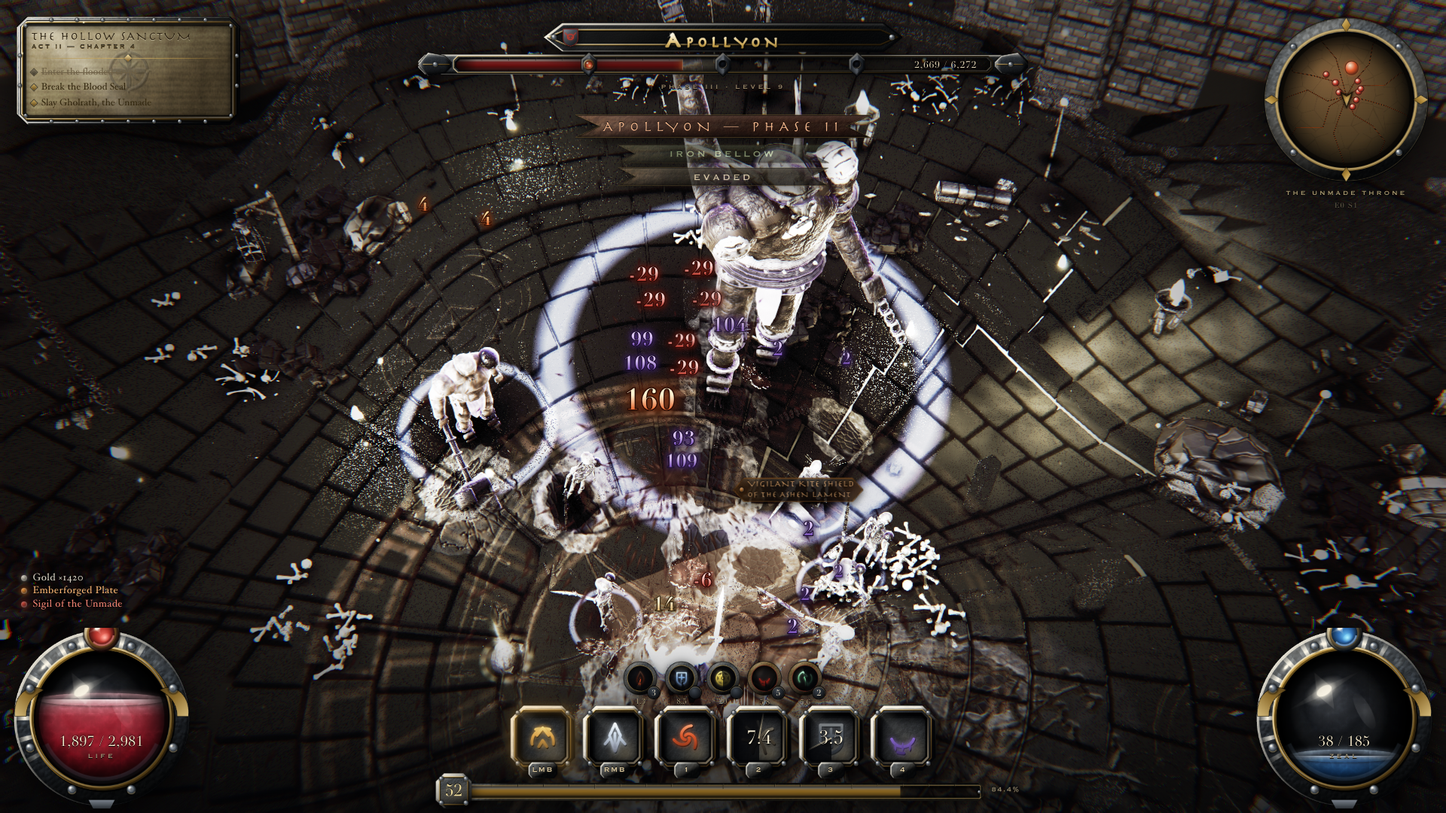
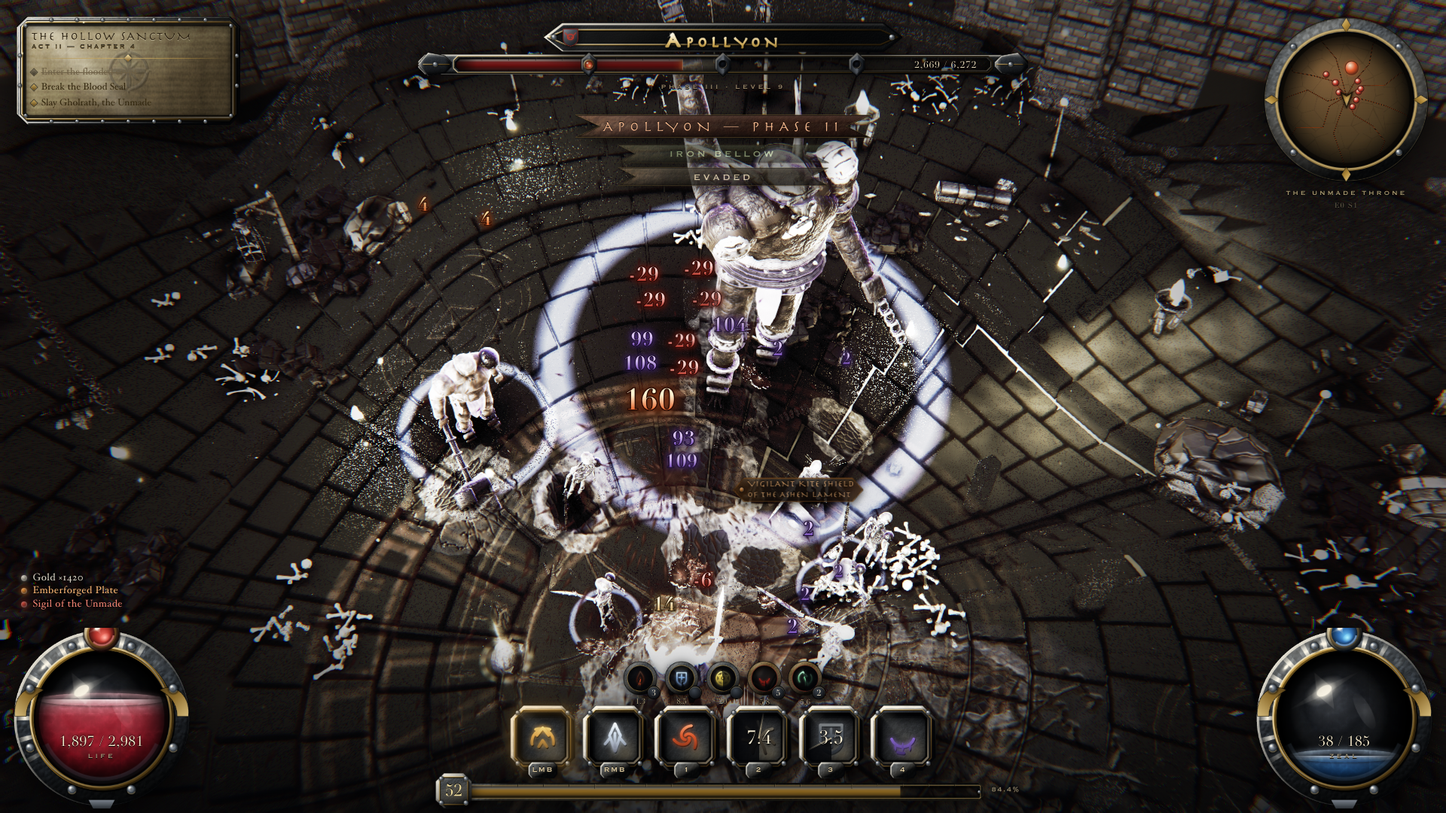
Stop enemy attack warnings from printing a square patch around the hero
A telegraph is drawn on a square patch PAD (0.5 m) past its shape, and two
of its layers reached that patch's straight sides:

- The outer contact shade fell off as exp(-d / 0.34) and was still at
  0.06 coverage where the skirt ends, so it stopped on a straight line.
  The grade's contrast made that line plain on the floor.
- The release flash was masked by mix(max(body, rim), 1.0, bleedIn), and
  bleedIn is 1 for every closed shape, so a landing circle or ring
  flashed its entire rotated square quad.

Enemy AoE warnings are aimed at the hero, so the square followed him and
was re-cut each time one landed, which is the "square drawn on the floor
as the player moves" that was reported. The shade is now windowed to zero
before the skirt edge, and the flash covers only the shape and its rim.

Verified in the live crypt by swapping the old shader back in on the same
frozen frame: with the warnings forced into release, the old shader paints
a rotated square round the hero and the new one paints only the circle.
boss (2.0% of pixels, its baseline had the square in it), dungeon (8 px)
and night (0.4%) were recaptured; each repeats exactly.

Changed region(s): [[0.4062, 0.6722, 0.625, 0.8861], [0.4375, 0.8556, 0.4688, 0.8861]]

diff --git a/src/vfx/decals/Telegraph.js b/src/vfx/decals/Telegraph.js
@@ -245,6 +245,7 @@ varying vec4 vT4;   // endTime, released, seed, opacity
 #define STREAK 0.20          /* hazard streak gain                                 */
 #define SHADE  0.012         /* engraved shadow line gain (near black)             */
 #define BLEED  0.020         /* outer contact shade gain (near black)              */
+#define TG_PAD ${PAD.toFixed(3)}   /* the patch's skirt past the shape, metres (PAD)   */
 
 /* Value noise. Zero textures — the whole field still costs 0 texture units — and
  * a pure function of local position, so it is byte-deterministic across runs. */
@@ -580,13 +581,23 @@ void main() {
      rectangle sitting on the floor, which is exactly the shape that read as
      broken geometry over the boss arena's bright stone. */
   float bleedM = mix( 1.0 - inside, 1.0, bleedIn );
-  SHDW( tint * BLEED,  exp( -max( 0.0, d ) / 0.34 ) * 0.26 * impend * bleedM )
+  /* ...and it must reach zero INSIDE the patch. The exponential alone was still
+     at 0.06 coverage where the skirt ends, PAD past the shape, so the shade
+     stopped on the patch's own straight sides. Under the grade's contrast that
+     read as a dark square printed round the hero by every warning aimed at him,
+     re-cut each time one landed. The window closes before the skirt edge, and the
+     corners lie farther out still, so nothing is left for the quad to clip. */
+  float bleedEdge = 1.0 - smoothstep( TG_PAD * 0.45, TG_PAD * 0.92, d );
+  SHDW( tint * BLEED,  exp( -max( 0.0, d ) / 0.34 ) * 0.26 * impend * bleedM * bleedEdge )
   SHDW( tint * WASH,   body * ( 0.16 + 0.15 * swept ) * impend * danger * fillM * radRamp )
   SHDW( tint * STREAK, hatch * 0.14 * danger )
   SHDW( tint * SHADE,  groove * 0.62 )
   LGHT( hotN * L_FRONT * frontM, front * 0.66 * frontM, 0.30 )
   LGHT( hotN * L_RIM * ( 0.86 + 0.14 * prog ) * pulse * rimGain, rim * rimCov, 0.26 )
-  LGHT( hotN * L_RIM * 1.20, flash * ( 0.30 + 0.60 * rim ) * mix( max( body, rim ), 1.0, bleedIn ), 0.32 )
+  /* The release flash covers the shape and its rim, never the patch. It used
+     mix( max( body, rim ), 1.0, bleedIn ), and bleedIn is 1 for every closed
+     shape, so a landing circle or ring flashed its whole square quad. */
+  LGHT( hotN * L_RIM * 1.20, flash * ( 0.30 + 0.60 * rim ) * max( body, rim ), 0.32 )
   #undef SHDW
   #undef LGHT
 

diff --git a/KNOWN_ISSUES.md b/KNOWN_ISSUES.md
@@ -20,7 +20,10 @@ then retaken for prop contact shadows sized by how tall the prop stands, with a
 round edge (0.2-9.2% of pixels: the black holes under sunk rocks and clumps
 went soft); each repeats exactly. And once more when contact
 shadows and telegraphs stopped being clipped along proud flagstones (0.1-2.0%
-of pixels); each repeats exactly.
+of pixels); each repeats exactly. `boss`, `dungeon` and `night` were retaken when
+a telegraph's outer shade and release flash stopped filling its square patch
+(2.0%, 0.0006% and 0.4% of pixels; `boss` had the square printed on its floor);
+each repeats exactly.
 
 The previous revision of this table said it was measured after the cascade fix
 `d2aad35`. That object is not in this repository (`git cat-file -t d2aad35` →
@@ -38,13 +41,13 @@ until the flags are at zero.
 
 | scenario | mean | sd | p01 | p99 | blk% | sat | colors | verdict |
 |---|---|---|---|---|---|---|---|---|
-| boss | 0.193 | 0.201 | 0 | 0.906 | 2.2 | 0.313 | 591 | in range |
+| boss | 0.190 | 0.199 | 0 | 0.906 | 2.3 | 0.313 | 589 | in range |
 | closeup | 0.258 | 0.207 | 0 | 0.781 | 2.3 | 0.210 | 158 | in range |
 | combat | 0.285 | 0.213 | 0 | 0.875 | 1.1 | 0.271 | 455 | in range |
 | dungeon | 0.276 | 0.214 | 0 | 0.875 | 1.3 | 0.250 | 331 | in range |
 | hub | 0.146 | 0.165 | 0 | 0.813 | 8.7 | 0.297 | 316 | in range |
 | inventory | 0.209 | 0.192 | 0 | 0.844 | 7.1 | 0.265 | 313 | in range |
-| night | 0.192 | 0.209 | 0 | 0.906 | 13.0 | 0.336 | 550 | in range |
+| night | 0.192 | 0.209 | 0 | 0.906 | 13.0 | 0.336 | 551 | in range |
 | overworld | 0.266 | 0.202 | 0 | **0.750** | 3.0 | 0.219 | 368 | in range — p99 is 0.030 over the 0.72 floor |
 
 `sheet.mjs` warns when `p99 < 0.72`, so `overworld` clears the highlight floor by
